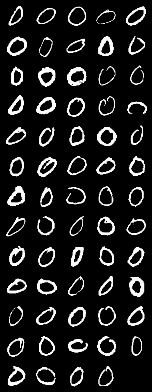
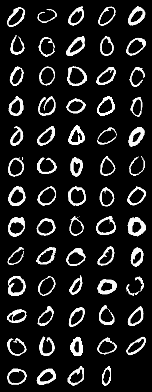
ddpm samples fixed

diff --git a/miniproject1/ddpm_mnist.py b/miniproject1/ddpm_mnist.py
@@ -50,15 +50,11 @@ class DDPM(nn.Module):
         """
 
         ### Implement Algorithm 1 here ###
-        sqrt_alpha_bar = torch.sqrt(
-            self.alpha_cumprod
-        )  # HINT: use torch.sqrt to calculate the sqrt of alphas_bar at timestep t
-
-        noise = torch.normal(0, 1, size=x.shape)
-        t = torch.randint(1, self.T, (x.shape[0],))
+        noise = torch.normal(mean=0, std=1, size=x.shape).to(x.device)
+        t = torch.randint(1, self.T, (x.shape[0],), device=x.device)
         thing = (
-            sqrt_alpha_bar[t].unsqueeze(1) * x
-            + torch.sqrt(1 - sqrt_alpha_bar[t]).unsqueeze(1) * noise
+            self.alpha_cumprod[t].unsqueeze(1) * x
+            + torch.sqrt(1 - self.alpha_cumprod[t]).unsqueeze(1) * noise
         )
         pred_noise = self.network(thing, t.unsqueeze(1).float())
         neg_elbo = torch.mean((noise - pred_noise) ** 2)
@@ -81,23 +77,26 @@ class DDPM(nn.Module):
 
         # Sample x_t given x_{t+1} until x_0 is sampled
         for t in range(self.T - 1, -1, -1):
+            t_tensor = torch.full((shape[0],), t, device=x_t.device)
+
             ### Implement the remaining of Algorithm 2 here ###
-            z = torch.normal(torch.zeros_like(x_t), 1)
-            z[t < 1] = 0
-            std = torch.sqrt(self.beta)
-            predicted_noise = self.network(x_t, t)
+            if t > 1:
+                z = torch.normal(mean=0, std=1, size=x_t.shape).to(x_t.device)
+            else:
+                z = torch.zeros_like(x_t)
+            std = torch.sqrt(self.beta[t_tensor].unsqueeze(1))
+            predicted_noise = self.network(x_t, t_tensor.unsqueeze(1).float())
             x_t = (
                 1
-                / torch.sqrt(self.alpha)
+                / torch.sqrt(self.alpha[t_tensor].unsqueeze(1))
                 * (
                     x_t
-                    - (1 - self.alpha)
-                    / (torch.sqrt(1 - self.alpha_cumprod))
+                    - (1 - self.alpha[t_tensor].unsqueeze(1))
+                    / (torch.sqrt(1 - self.alpha_cumprod[t_tensor].unsqueeze(1)))
                     * predicted_noise
                 )
                 + std * z
             )  # Calculate x_{t-1}, see line 4 of the Algorithm 2 (Sampling) at page 4 of the ddpm paper.
-
         return x_t
 
     def loss(self, x):
@@ -191,6 +190,7 @@ if __name__ == "__main__":
     import torch.utils.data
     from torchvision import datasets, transforms
     from torchvision.utils import save_image
+    import ToyData
 
     # Parse arguments
     import argparse
@@ -256,6 +256,7 @@ if __name__ == "__main__":
     for key, value in sorted(vars(args).items()):
         print(key, "=", value)
 
+    # Generate the data
     mnist_transform = transforms.Compose(
         [
             transforms.ToTensor(),
@@ -270,7 +271,6 @@ if __name__ == "__main__":
             data, target = super().__getitem__(index)
             return data
 
-    # Generate the data
     target_class = 0
     mnist = MNISTWithoutLabels(
         "data", train=True, download=True, transform=mnist_transform
@@ -281,12 +281,6 @@ if __name__ == "__main__":
     train_loader = torch.utils.data.DataLoader(
         mnist, batch_size=args.batch_size, shuffle=True
     )
-
-    # Plot the first batch of data
-    data_iter = iter(train_loader)
-    x = next(data_iter)
-    x = x.view(-1, 1, 28, 28)
-    save_image(x, "data.png", nrow=5)
 
     # Get the dimension of the dataset
     D = next(iter(train_loader)).shape[1]
@@ -318,19 +312,28 @@ if __name__ == "__main__":
 
         # Load the model
         model.load_state_dict(
-            torch.load(args.model, map_location=torch.device(args.device))
+            torch.load(
+                args.model, map_location=torch.device(args.device), weights_only=True
+            )
         )
 
         # Generate samples
         model.eval()
         with torch.no_grad():
-            samples = (model.sample((100, D))).cpu()
+            samples = (model.sample((30, D))).cpu()
 
         # Transform the samples back to the original space
-        samples = samples / 2 + 0.5
+        samples = samples /2 + 0.5
+        
+        
+        print(samples.shape)
+        print(samples[0])
+        print(f"Max value of first sample: {samples[0].max().item()}")
+        print(f"Min value of first sample: {samples[0].min().item()}")
 
-        # Plot the density of the toy data and the model samples
         # Plot mnist samples
-        samples = samples.view(-1, 1, 28, 28)
+        
         print(f"{args.samples}Epoch{args.epochs}.png")
-        save_image(samples, f"{args.samples}Epoch{args.epochs}Class{target_class}.png", nrow=10)
+        save_image(
+            samples, f"{args.samples}Epoch{args.epochs}Class{target_class}.png", nrow=10
+        )
